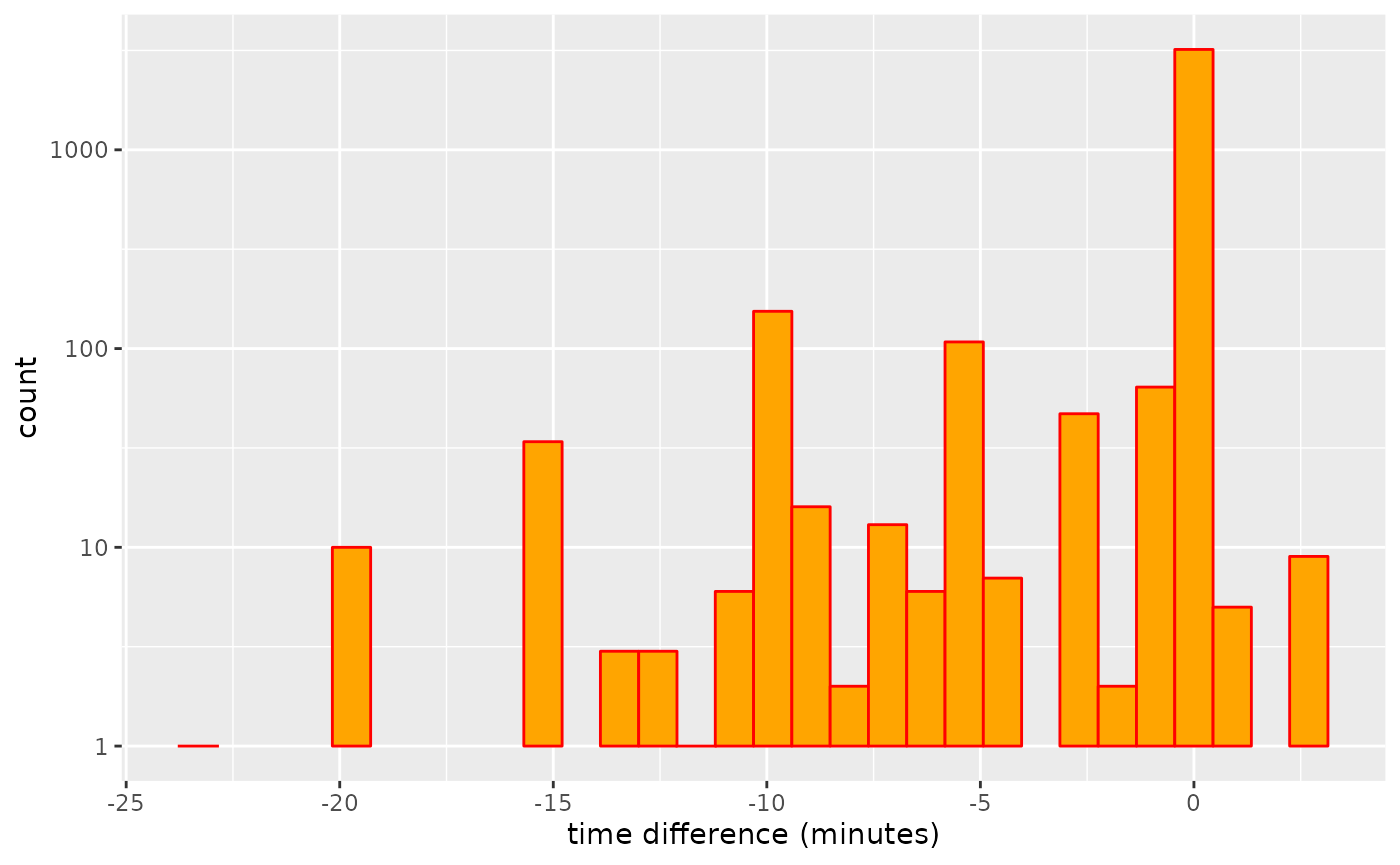
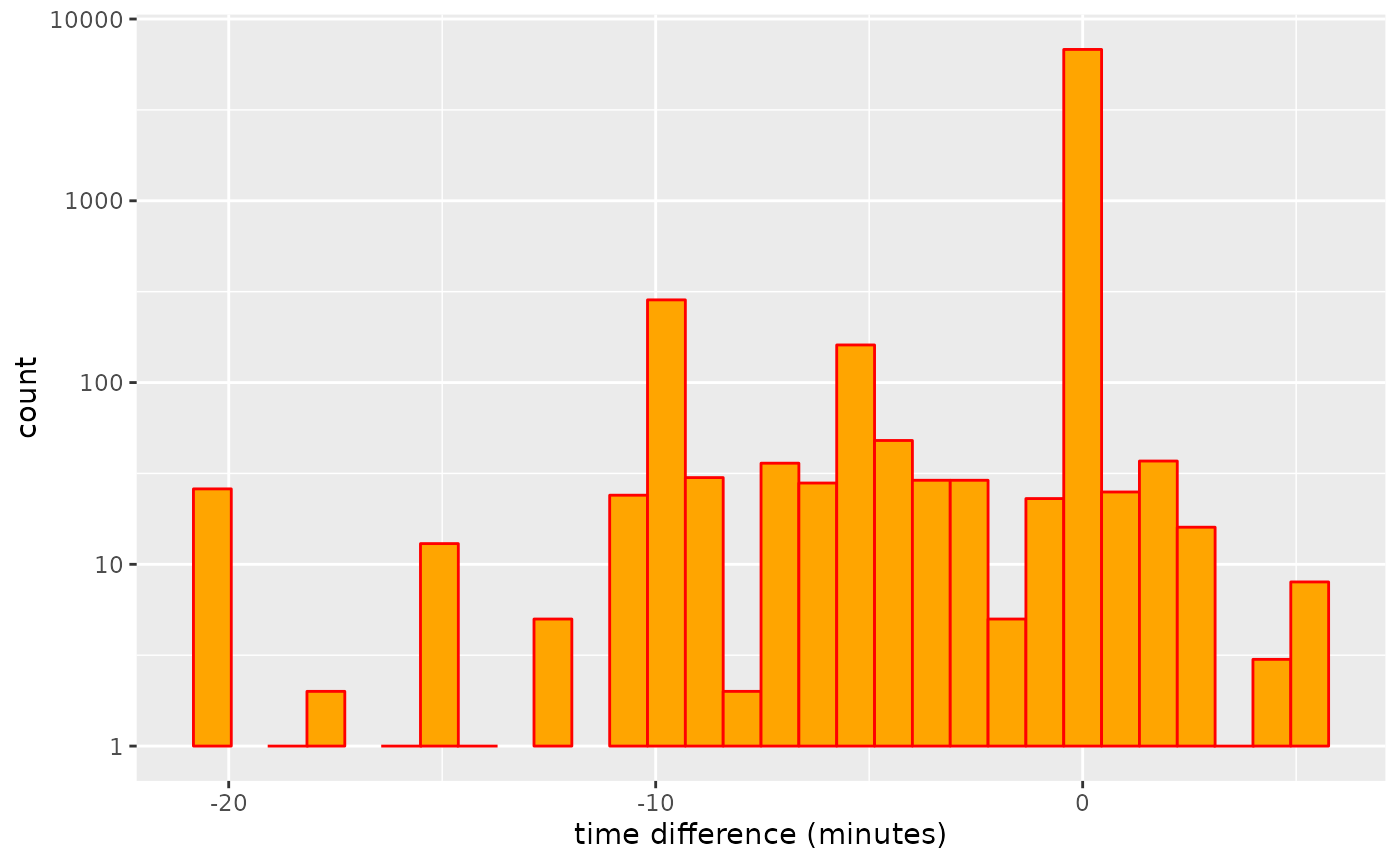
Deploying to gh-pages from @ ATFutures/gtfs-router@774e82ae7694b55cf86c5350c6e3bf46590064a5 🚀

diff --git a/docs/articles/transfers.html b/docs/articles/transfers.html
@@ -33,7 +33,7 @@
       </button>
       <span class="navbar-brand">
         <a class="navbar-link" href="../index.html">gtfsrouter</a>
-        <span class="version label label-default" data-toggle="tooltip" data-placement="bottom" title="">0.0.5.104</span>
+        <span class="version label label-default" data-toggle="tooltip" data-placement="bottom" title="">0.0.5.107</span>
       </span>
     </div>
 
@@ -447,7 +447,7 @@
 <span>    <span class="fu"><a href="https://ggplot2.tidyverse.org/reference/scale_continuous.html" class="external-link">scale_y_log10</a></span> <span class="op">(</span><span class="op">)</span> <span class="op">+</span></span>
 <span>    <span class="fu"><a href="https://ggplot2.tidyverse.org/reference/labs.html" class="external-link">xlab</a></span> <span class="op">(</span><span class="st">"time difference (minutes)"</span><span class="op">)</span></span></code></pre></div>
 <p><img src="transfers_files/figure-html/plot1-1.png" width="700"></p>
-<p>And these additional transfer possibilities can make a significant difference to estimated travel times. Note, however, that the travel times only changed for 410 stations, while the value of <code>nsame</code> value recording numbers of stations for which travel times did not change was 4,263. Travel times may also increase as additional transfers may be used to reduce numbers of connecting services required for a particular trip, and the algorithm generally searches for connections with minimal numbers of transfers.</p>
+<p>And these additional transfer possibilities can make a significant difference to estimated travel times. Note, however, that the travel times only changed for 849 stations, while the value of <code>nsame</code> value recording numbers of stations for which travel times did not change was 4,558. Travel times may also increase as additional transfers may be used to reduce numbers of connecting services required for a particular trip, and the algorithm generally searches for connections with minimal numbers of transfers.</p>
 <p>The following code the quantifies the overall effect of these reductions in travel times, measured as the linear reduction in comparison with travel times calculated using the original transfers table provided with the feed. The function also returns the proportion of all stations for which travel times were affected by the modified transfer table.</p>
 <div class="sourceCode" id="cb42"><pre class="downlit sourceCode r">
 <code class="sourceCode R"><span><span class="va">transfer_difference</span> <span class="op">&lt;-</span> <span class="kw">function</span> <span class="op">(</span><span class="va">gtfs</span>,</span>
@@ -514,7 +514,7 @@
 <span>    <span class="fu"><a href="https://ggplot2.tidyverse.org/reference/geom_point.html" class="external-link">geom_point</a></span> <span class="op">(</span>pch <span class="op">=</span> <span class="fl">19</span>, col <span class="op">=</span> <span class="st">"orange"</span><span class="op">)</span> <span class="op">+</span></span>
 <span>    <span class="fu"><a href="https://ggplot2.tidyverse.org/reference/geom_smooth.html" class="external-link">geom_smooth</a></span> <span class="op">(</span>method <span class="op">=</span> <span class="st">"loess"</span>, formula <span class="op">=</span> <span class="st">"y ~ x"</span><span class="op">)</span></span></code></pre></div>
 <p><img src="transfers_files/figure-html/transfer_d_limit_results-1.png" width="700"></p>
-<p>That result shows that travel times do decrease with increasing limits of maximal transfer distance, although the overall effect is very minimal. The object <code>d</code> also records the proportion of station pairs for which modifications to the transfers table actually changed travel times, which in this case amounts to a mean value of 0.0038, clearly revealing that very few trips actually change.</p>
+<p>That result shows that travel times do decrease with increasing limits of maximal transfer distance, although the overall effect is very minimal. The object <code>d</code> also records the proportion of station pairs for which modifications to the transfers table actually changed travel times, which in this case amounts to a mean value of 0.0049, clearly revealing that very few trips actually change.</p>
 <div class="section level3">
 <h3 id="a-more-realistic-example">A more realistic example<a class="anchor" aria-label="anchor" href="#a-more-realistic-example"></a>
 </h3>

diff --git a/docs/articles/gtfsrouter.html b/docs/articles/gtfsrouter.html
@@ -33,7 +33,7 @@
       </button>
       <span class="navbar-brand">
         <a class="navbar-link" href="../index.html">gtfsrouter</a>
-        <span class="version label label-default" data-toggle="tooltip" data-placement="bottom" title="">0.0.5.104</span>
+        <span class="version label label-default" data-toggle="tooltip" data-placement="bottom" title="">0.0.5.107</span>
       </span>
     </div>
 
@@ -95,7 +95,7 @@
 <p>The one thing neither of these packages enable is the use of GTFS data for transit routing. The <code>gtfsrouter</code> package enables both one-to-one and one-to-many routing. Functionality is demonstrated here through the sample data set included with the package, provided by the “Verkehrsverbund Berlin-Brandenburg” (VBB; or Transport Network Berlin-Brandenburg). The <code>berlin_gtfs</code> data represents a reduced version of the full GTFS data, containing only six tables, and a timetable reduced to the single hour between 12:00-13:00. Like all GTFS software including <a href="https://github.com/r-transit/tidytransit" class="external-link"><code>tidytransit</code></a>, this package is designed to work directly with GTFS data in <code>.zip</code>-archived format, and so includes a helper function, <code><a href="../reference/berlin_gtfs_to_zip.html">berlin_gtfs_to_zip()</a></code>, which exports the internal data set to a locally-stored <code>.zip</code> archive in the <code><a href="https://rdrr.io/r/base/tempfile.html" class="external-link">tempdir()</a></code> of the current <strong>R</strong> session. These data can be exported and re-imported with:</p>
 <div class="sourceCode" id="cb1"><pre class="downlit sourceCode r">
 <code class="sourceCode R"><span><span class="fu"><a href="../reference/berlin_gtfs_to_zip.html">berlin_gtfs_to_zip</a></span><span class="op">(</span><span class="op">)</span></span></code></pre></div>
-<pre><code><span><span class="co">## [1] "/tmp/RtmpJGEIVY/vbb.zip"</span></span></code></pre>
+<pre><code><span><span class="co">## [1] "/tmp/RtmpLwv9rt/vbb.zip"</span></span></code></pre>
 <div class="sourceCode" id="cb3"><pre class="downlit sourceCode r">
 <code class="sourceCode R"><span><span class="va">f</span> <span class="op">&lt;-</span> <span class="fu"><a href="https://rdrr.io/r/base/file.path.html" class="external-link">file.path</a></span> <span class="op">(</span><span class="fu"><a href="https://rdrr.io/r/base/tempfile.html" class="external-link">tempdir</a></span> <span class="op">(</span><span class="op">)</span>, <span class="st">"vbb.zip"</span><span class="op">)</span></span>
 <span><span class="fu"><a href="https://rdrr.io/r/base/files.html" class="external-link">file.exists</a></span> <span class="op">(</span><span class="va">f</span><span class="op">)</span></span></code></pre></div>
@@ -286,7 +286,7 @@
 <span>                day <span class="op">=</span> <span class="st">"Sunday"</span><span class="op">)</span></span>
 <span>    <span class="op">)</span></span></code></pre></div>
 <pre><code><span><span class="co">##    user  system elapsed </span></span>
-<span><span class="co">##   0.085   0.000   0.084</span></span></code></pre>
+<span><span class="co">##   0.080   0.001   0.081</span></span></code></pre>
 <div class="sourceCode" id="cb14"><pre class="downlit sourceCode r">
 <code class="sourceCode R"><span><span class="fu"><a href="https://rdrr.io/r/base/names.html" class="external-link">names</a></span> <span class="op">(</span><span class="va">gtfs</span><span class="op">)</span></span></code></pre></div>
 <pre><code><span><span class="co">## [1] "calendar"   "routes"     "trips"      "stop_times" "stops"     </span></span>
@@ -304,7 +304,7 @@
 <span>                         to <span class="op">=</span> <span class="va">to</span>,</span>
 <span>                         start_time <span class="op">=</span> <span class="st">"12:00:00"</span><span class="op">)</span><span class="op">)</span></span></code></pre></div>
 <pre><code><span><span class="co">##    user  system elapsed </span></span>
-<span><span class="co">##    0.06    0.00    0.06</span></span></code></pre>
+<span><span class="co">##   0.061   0.000   0.060</span></span></code></pre>
 <p>Note that the <code>day</code> parameter is used to extract the timetable, after which it is no longer required in the actual call to <code><a href="../reference/gtfs_route.html">gtfs_route()</a></code>.</p>
 </div>
 <div class="section level3">

diff --git a/docs/reference/gtfs_transfer_table.html b/docs/reference/gtfs_transfer_table.html
@@ -17,7 +17,7 @@
       </button>
       <span class="navbar-brand">
         <a class="navbar-link" href="../index.html">gtfsrouter</a>
-        <span class="version label label-default" data-toggle="tooltip" data-placement="bottom" title="">0.0.5.104</span>
+        <span class="version label label-default" data-toggle="tooltip" data-placement="bottom" title="">0.0.5.107</span>
       </span>
     </div>
 
@@ -112,7 +112,7 @@ throughout the underlying street network. If this is not provided as the
     <div id="ref-examples">
     <h2>Examples</h2>
     <div class="sourceCode"><pre class="sourceCode r"><code><span class="r-in"><span><span class="fu"><a href="berlin_gtfs_to_zip.html">berlin_gtfs_to_zip</a></span> <span class="op">(</span><span class="op">)</span></span></span>
-<span class="r-out co"><span class="r-pr">#&gt;</span> [1] "/tmp/Rtmp3tfzAO/vbb.zip"</span>
+<span class="r-out co"><span class="r-pr">#&gt;</span> [1] "/tmp/RtmpV2nMse/vbb.zip"</span>
 <span class="r-in"><span><span class="va">f</span> <span class="op">&lt;-</span> <span class="fu"><a href="https://rdrr.io/r/base/file.path.html" class="external-link">file.path</a></span> <span class="op">(</span><span class="fu"><a href="https://rdrr.io/r/base/tempfile.html" class="external-link">tempdir</a></span> <span class="op">(</span><span class="op">)</span>, <span class="st">"vbb.zip"</span><span class="op">)</span></span></span>
 <span class="r-in"><span><span class="va">g</span> <span class="op">&lt;-</span> <span class="fu"><a href="extract_gtfs.html">extract_gtfs</a></span> <span class="op">(</span><span class="va">f</span>, quiet <span class="op">=</span> <span class="cn">TRUE</span><span class="op">)</span></span></span>
 <span class="r-in"><span><span class="va">g</span> <span class="op">&lt;-</span> <span class="fu">gtfs_transfer_table</span> <span class="op">(</span><span class="va">g</span>, d_limit <span class="op">=</span> <span class="fl">200</span><span class="op">)</span></span></span>

diff --git a/docs/reference/gtfs_route.html b/docs/reference/gtfs_route.html
@@ -18,7 +18,7 @@ a specified time."><!-- mathjax --><script src="https://cdnjs.cloudflare.com/aja
       </button>
       <span class="navbar-brand">
         <a class="navbar-link" href="../index.html">gtfsrouter</a>
-        <span class="version label label-default" data-toggle="tooltip" data-placement="bottom" title="">0.0.5.104</span>
+        <span class="version label label-default" data-toggle="tooltip" data-placement="bottom" title="">0.0.5.107</span>
       </span>
     </div>
 
@@ -182,7 +182,7 @@ can be calculated by setting <code>earliest_arrival = FALSE</code>.</p>
     <div id="ref-examples">
     <h2>Examples</h2>
     <div class="sourceCode"><pre class="sourceCode r"><code><span class="r-in"><span><span class="fu"><a href="berlin_gtfs_to_zip.html">berlin_gtfs_to_zip</a></span> <span class="op">(</span><span class="op">)</span> <span class="co"># Write sample feed from Berlin, Germany to tempdir</span></span></span>
-<span class="r-out co"><span class="r-pr">#&gt;</span> [1] "/tmp/Rtmp3tfzAO/vbb.zip"</span>
+<span class="r-out co"><span class="r-pr">#&gt;</span> [1] "/tmp/RtmpV2nMse/vbb.zip"</span>
 <span class="r-in"><span><span class="va">f</span> <span class="op">&lt;-</span> <span class="fu"><a href="https://rdrr.io/r/base/file.path.html" class="external-link">file.path</a></span> <span class="op">(</span><span class="fu"><a href="https://rdrr.io/r/base/tempfile.html" class="external-link">tempdir</a></span> <span class="op">(</span><span class="op">)</span>, <span class="st">"vbb.zip"</span><span class="op">)</span> <span class="co"># name of feed</span></span></span>
 <span class="r-in"><span><span class="va">gtfs</span> <span class="op">&lt;-</span> <span class="fu"><a href="extract_gtfs.html">extract_gtfs</a></span> <span class="op">(</span><span class="va">f</span><span class="op">)</span></span></span>
 <span class="r-msg co"><span class="r-pr">#&gt;</span> ▶<span style="color: #00BB00;"> Unzipping GTFS archive</span></span>

diff --git a/docs/articles/traveltimes.html b/docs/articles/traveltimes.html
@@ -33,7 +33,7 @@
       </button>
       <span class="navbar-brand">
         <a class="navbar-link" href="../index.html">gtfsrouter</a>
-        <span class="version label label-default" data-toggle="tooltip" data-placement="bottom" title="">0.0.5.104</span>
+        <span class="version label label-default" data-toggle="tooltip" data-placement="bottom" title="">0.0.5.107</span>
       </span>
     </div>
 
@@ -86,7 +86,7 @@
 <div class="sourceCode" id="cb1"><pre class="downlit sourceCode r">
 <code class="sourceCode R"><span><span class="kw"><a href="https://rdrr.io/r/base/library.html" class="external-link">library</a></span> <span class="op">(</span><span class="va"><a href="https://github.com/ATFutures/gtfs-router" class="external-link">gtfsrouter</a></span><span class="op">)</span></span>
 <span><span class="fu"><a href="../reference/berlin_gtfs_to_zip.html">berlin_gtfs_to_zip</a></span> <span class="op">(</span><span class="op">)</span></span></code></pre></div>
-<pre><code><span><span class="co">## [1] "/tmp/Rtmp2noKCz/vbb.zip"</span></span></code></pre>
+<pre><code><span><span class="co">## [1] "/tmp/Rtmpygob1k/vbb.zip"</span></span></code></pre>
 <div class="sourceCode" id="cb3"><pre class="downlit sourceCode r">
 <code class="sourceCode R"><span><span class="va">f</span> <span class="op">&lt;-</span> <span class="fu"><a href="https://rdrr.io/r/base/file.path.html" class="external-link">file.path</a></span> <span class="op">(</span><span class="fu"><a href="https://rdrr.io/r/base/tempfile.html" class="external-link">tempdir</a></span> <span class="op">(</span><span class="op">)</span>, <span class="st">"vbb.zip"</span><span class="op">)</span></span>
 <span><span class="va">gtfs</span> <span class="op">&lt;-</span> <span class="fu"><a href="../reference/extract_gtfs.html">extract_gtfs</a></span> <span class="op">(</span><span class="va">f</span>, quiet <span class="op">=</span> <span class="cn">TRUE</span><span class="op">)</span></span>

diff --git a/docs/reference/berlin_gtfs.html b/docs/reference/berlin_gtfs.html
@@ -23,7 +23,7 @@ characters.'><!-- mathjax --><script src="https://cdnjs.cloudflare.com/ajax/libs
       </button>
       <span class="navbar-brand">
         <a class="navbar-link" href="../index.html">gtfsrouter</a>
-        <span class="version label label-default" data-toggle="tooltip" data-placement="bottom" title="">0.0.5.104</span>
+        <span class="version label label-default" data-toggle="tooltip" data-placement="bottom" title="">0.0.5.107</span>
       </span>
     </div>
 
@@ -96,7 +96,7 @@ for which no route is possible return <code>NULL</code>.</p>
     <div id="ref-examples">
     <h2>Examples</h2>
     <div class="sourceCode"><pre class="sourceCode r"><code><span class="r-in"><span><span class="fu"><a href="berlin_gtfs_to_zip.html">berlin_gtfs_to_zip</a></span> <span class="op">(</span><span class="op">)</span> <span class="co"># Write sample feed from Berlin, Germany to tempdir</span></span></span>
-<span class="r-out co"><span class="r-pr">#&gt;</span> [1] "/tmp/Rtmp3tfzAO/vbb.zip"</span>
+<span class="r-out co"><span class="r-pr">#&gt;</span> [1] "/tmp/RtmpV2nMse/vbb.zip"</span>
 <span class="r-in"><span><span class="va">f</span> <span class="op">&lt;-</span> <span class="fu"><a href="https://rdrr.io/r/base/file.path.html" class="external-link">file.path</a></span> <span class="op">(</span><span class="fu"><a href="https://rdrr.io/r/base/tempfile.html" class="external-link">tempdir</a></span> <span class="op">(</span><span class="op">)</span>, <span class="st">"vbb.zip"</span><span class="op">)</span> <span class="co"># name of feed</span></span></span>
 <span class="r-in"><span><span class="va">gtfs</span> <span class="op">&lt;-</span> <span class="fu"><a href="extract_gtfs.html">extract_gtfs</a></span> <span class="op">(</span><span class="va">f</span><span class="op">)</span></span></span>
 <span class="r-msg co"><span class="r-pr">#&gt;</span> ▶<span style="color: #00BB00;"> Unzipping GTFS archive</span></span>

diff --git a/docs/reference/gtfs_timetable.html b/docs/reference/gtfs_timetable.html
@@ -17,7 +17,7 @@
       </button>
       <span class="navbar-brand">
         <a class="navbar-link" href="../index.html">gtfsrouter</a>
-        <span class="version label label-default" data-toggle="tooltip" data-placement="bottom" title="">0.0.5.104</span>
+        <span class="version label label-default" data-toggle="tooltip" data-placement="bottom" title="">0.0.5.107</span>
       </span>
     </div>
 
@@ -126,7 +126,7 @@ that case will generally take longer.</p>
     <div id="ref-examples">
     <h2>Examples</h2>
     <div class="sourceCode"><pre class="sourceCode r"><code><span class="r-in"><span><span class="fu"><a href="berlin_gtfs_to_zip.html">berlin_gtfs_to_zip</a></span> <span class="op">(</span><span class="op">)</span> <span class="co"># Write sample feed from Berlin, Germany to tempdir</span></span></span>
-<span class="r-out co"><span class="r-pr">#&gt;</span> [1] "/tmp/Rtmp3tfzAO/vbb.zip"</span>
+<span class="r-out co"><span class="r-pr">#&gt;</span> [1] "/tmp/RtmpV2nMse/vbb.zip"</span>
 <span class="r-in"><span><span class="va">f</span> <span class="op">&lt;-</span> <span class="fu"><a href="https://rdrr.io/r/base/file.path.html" class="external-link">file.path</a></span> <span class="op">(</span><span class="fu"><a href="https://rdrr.io/r/base/tempfile.html" class="external-link">tempdir</a></span> <span class="op">(</span><span class="op">)</span>, <span class="st">"vbb.zip"</span><span class="op">)</span> <span class="co"># name of feed</span></span></span>
 <span class="r-in"><span><span class="va">gtfs</span> <span class="op">&lt;-</span> <span class="fu"><a href="extract_gtfs.html">extract_gtfs</a></span> <span class="op">(</span><span class="va">f</span><span class="op">)</span></span></span>
 <span class="r-msg co"><span class="r-pr">#&gt;</span> ▶<span style="color: #00BB00;"> Unzipping GTFS archive</span></span>

diff --git a/docs/reference/gtfs_traveltimes.html b/docs/reference/gtfs_traveltimes.html
@@ -18,7 +18,7 @@ other reachable station in a system."><!-- mathjax --><script src="https://cdnjs
       </button>
       <span class="navbar-brand">
         <a class="navbar-link" href="../index.html">gtfsrouter</a>
-        <span class="version label label-default" data-toggle="tooltip" data-placement="bottom" title="">0.0.5.104</span>
+        <span class="version label label-default" data-toggle="tooltip" data-placement="bottom" title="">0.0.5.107</span>
       </span>
     </div>
 
@@ -155,7 +155,7 @@ to reach all or most stations desired for a particular query, rather than set
     <div id="ref-examples">
     <h2>Examples</h2>
     <div class="sourceCode"><pre class="sourceCode r"><code><span class="r-in"><span><span class="fu"><a href="berlin_gtfs_to_zip.html">berlin_gtfs_to_zip</a></span> <span class="op">(</span><span class="op">)</span></span></span>
-<span class="r-out co"><span class="r-pr">#&gt;</span> [1] "/tmp/Rtmp3tfzAO/vbb.zip"</span>
+<span class="r-out co"><span class="r-pr">#&gt;</span> [1] "/tmp/RtmpV2nMse/vbb.zip"</span>
 <span class="r-in"><span><span class="va">f</span> <span class="op">&lt;-</span> <span class="fu"><a href="https://rdrr.io/r/base/file.path.html" class="external-link">file.path</a></span> <span class="op">(</span><span class="fu"><a href="https://rdrr.io/r/base/tempfile.html" class="external-link">tempdir</a></span> <span class="op">(</span><span class="op">)</span>, <span class="st">"vbb.zip"</span><span class="op">)</span></span></span>
 <span class="r-in"><span><span class="va">g</span> <span class="op">&lt;-</span> <span class="fu"><a href="extract_gtfs.html">extract_gtfs</a></span> <span class="op">(</span><span class="va">f</span><span class="op">)</span></span></span>
 <span class="r-msg co"><span class="r-pr">#&gt;</span> ▶<span style="color: #00BB00;"> Unzipping GTFS archive</span></span>

diff --git a/docs/reference/extract_gtfs.html b/docs/reference/extract_gtfs.html
@@ -17,7 +17,7 @@
       </button>
       <span class="navbar-brand">
         <a class="navbar-link" href="../index.html">gtfsrouter</a>
-        <span class="version label label-default" data-toggle="tooltip" data-placement="bottom" title="">0.0.5.104</span>
+        <span class="version label label-default" data-toggle="tooltip" data-placement="bottom" title="">0.0.5.107</span>
       </span>
     </div>
 
@@ -102,7 +102,7 @@ function to the two time columns of the "stop_times" table.</p>
     <div id="ref-examples">
     <h2>Examples</h2>
     <div class="sourceCode"><pre class="sourceCode r"><code><span class="r-in"><span><span class="fu"><a href="berlin_gtfs_to_zip.html">berlin_gtfs_to_zip</a></span> <span class="op">(</span><span class="op">)</span> <span class="co"># Write sample feed from Berlin, Germany to tempdir</span></span></span>
-<span class="r-out co"><span class="r-pr">#&gt;</span> [1] "/tmp/Rtmp3tfzAO/vbb.zip"</span>
+<span class="r-out co"><span class="r-pr">#&gt;</span> [1] "/tmp/RtmpV2nMse/vbb.zip"</span>
 <span class="r-in"><span><span class="va">f</span> <span class="op">&lt;-</span> <span class="fu"><a href="https://rdrr.io/r/base/file.path.html" class="external-link">file.path</a></span> <span class="op">(</span><span class="fu"><a href="https://rdrr.io/r/base/tempfile.html" class="external-link">tempdir</a></span> <span class="op">(</span><span class="op">)</span>, <span class="st">"vbb.zip"</span><span class="op">)</span> <span class="co"># name of feed</span></span></span>
 <span class="r-in"><span><span class="va">gtfs</span> <span class="op">&lt;-</span> <span class="fu">extract_gtfs</span> <span class="op">(</span><span class="va">f</span><span class="op">)</span></span></span>
 <span class="r-msg co"><span class="r-pr">#&gt;</span> ▶<span style="color: #00BB00;"> Unzipping GTFS archive</span></span>

diff --git a/docs/reference/summary.gtfs.html b/docs/reference/summary.gtfs.html
@@ -17,7 +17,7 @@
       </button>
       <span class="navbar-brand">
         <a class="navbar-link" href="../index.html">gtfsrouter</a>
-        <span class="version label label-default" data-toggle="tooltip" data-placement="bottom" title="">0.0.5.104</span>
+        <span class="version label label-default" data-toggle="tooltip" data-placement="bottom" title="">0.0.5.107</span>
       </span>
     </div>
 
@@ -81,7 +81,7 @@
     <div id="ref-examples">
     <h2>Examples</h2>
     <div class="sourceCode"><pre class="sourceCode r"><code><span class="r-in"><span><span class="fu"><a href="berlin_gtfs_to_zip.html">berlin_gtfs_to_zip</a></span> <span class="op">(</span><span class="op">)</span></span></span>
-<span class="r-out co"><span class="r-pr">#&gt;</span> [1] "/tmp/Rtmp3tfzAO/vbb.zip"</span>
+<span class="r-out co"><span class="r-pr">#&gt;</span> [1] "/tmp/RtmpV2nMse/vbb.zip"</span>
 <span class="r-in"><span><span class="va">f</span> <span class="op">&lt;-</span> <span class="fu"><a href="https://rdrr.io/r/base/file.path.html" class="external-link">file.path</a></span> <span class="op">(</span><span class="fu"><a href="https://rdrr.io/r/base/tempfile.html" class="external-link">tempdir</a></span> <span class="op">(</span><span class="op">)</span>, <span class="st">"vbb.zip"</span><span class="op">)</span></span></span>
 <span class="r-in"><span><span class="va">g</span> <span class="op">&lt;-</span> <span class="fu"><a href="extract_gtfs.html">extract_gtfs</a></span> <span class="op">(</span><span class="va">f</span><span class="op">)</span></span></span>
 <span class="r-msg co"><span class="r-pr">#&gt;</span> ▶<span style="color: #00BB00;"> Unzipping GTFS archive</span></span>

diff --git a/docs/authors.html b/docs/authors.html
@@ -17,7 +17,7 @@
       </button>
       <span class="navbar-brand">
         <a class="navbar-link" href="index.html">gtfsrouter</a>
-        <span class="version label label-default" data-toggle="tooltip" data-placement="bottom" title="">0.0.5.104</span>
+        <span class="version label label-default" data-toggle="tooltip" data-placement="bottom" title="">0.0.5.107</span>
       </span>
     </div>
 
@@ -74,13 +74,13 @@
 
     <p>Padgham M, Stepniak M (2022).
 <em>gtfsrouter: Routing with GTFS (General Transit Feed Specification) Data</em>.
-R package version 0.0.5.104, <a href="https://github.com/ATFutures/gtfs-router" class="external-link">https://github.com/ATFutures/gtfs-router</a>. 
+R package version 0.0.5.107, <a href="https://github.com/ATFutures/gtfs-router" class="external-link">https://github.com/ATFutures/gtfs-router</a>. 
 </p>
     <pre>@Manual{,
   title = {gtfsrouter: Routing with GTFS (General Transit Feed Specification) Data},
   author = {Mark Padgham and Marcin Stepniak},
   year = {2022},
-  note = {R package version 0.0.5.104},
+  note = {R package version 0.0.5.107},
   url = {https://github.com/ATFutures/gtfs-router},
 }</pre>
 

diff --git a/docs/reference/berlin_gtfs_to_zip.html b/docs/reference/berlin_gtfs_to_zip.html
@@ -18,7 +18,7 @@ a file named "vbb.zip" to tempdir().'><!-- mathjax --><script src="https://cdnjs
       </button>
       <span class="navbar-brand">
         <a class="navbar-link" href="../index.html">gtfsrouter</a>
-        <span class="version label label-default" data-toggle="tooltip" data-placement="bottom" title="">0.0.5.104</span>
+        <span class="version label label-default" data-toggle="tooltip" data-placement="bottom" title="">0.0.5.107</span>
       </span>
     </div>
 
